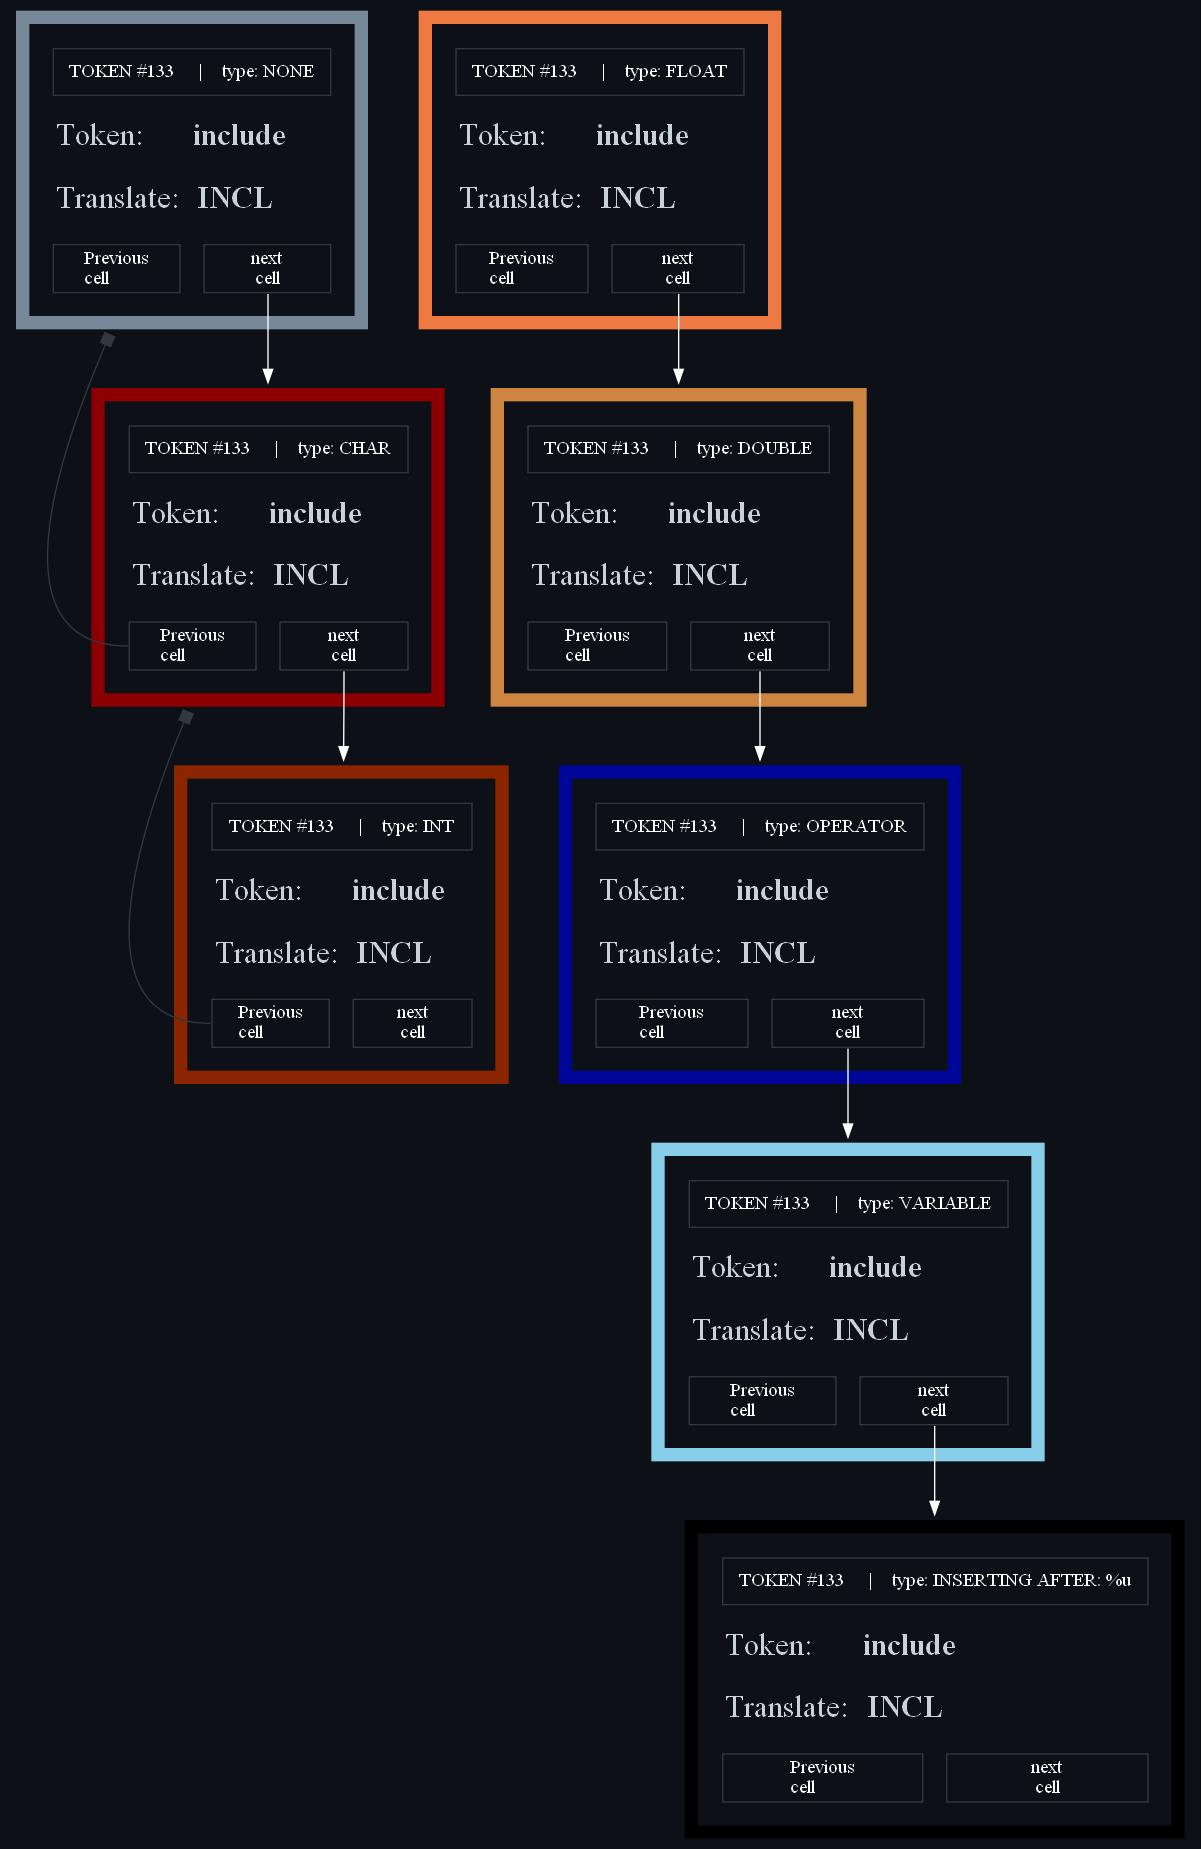
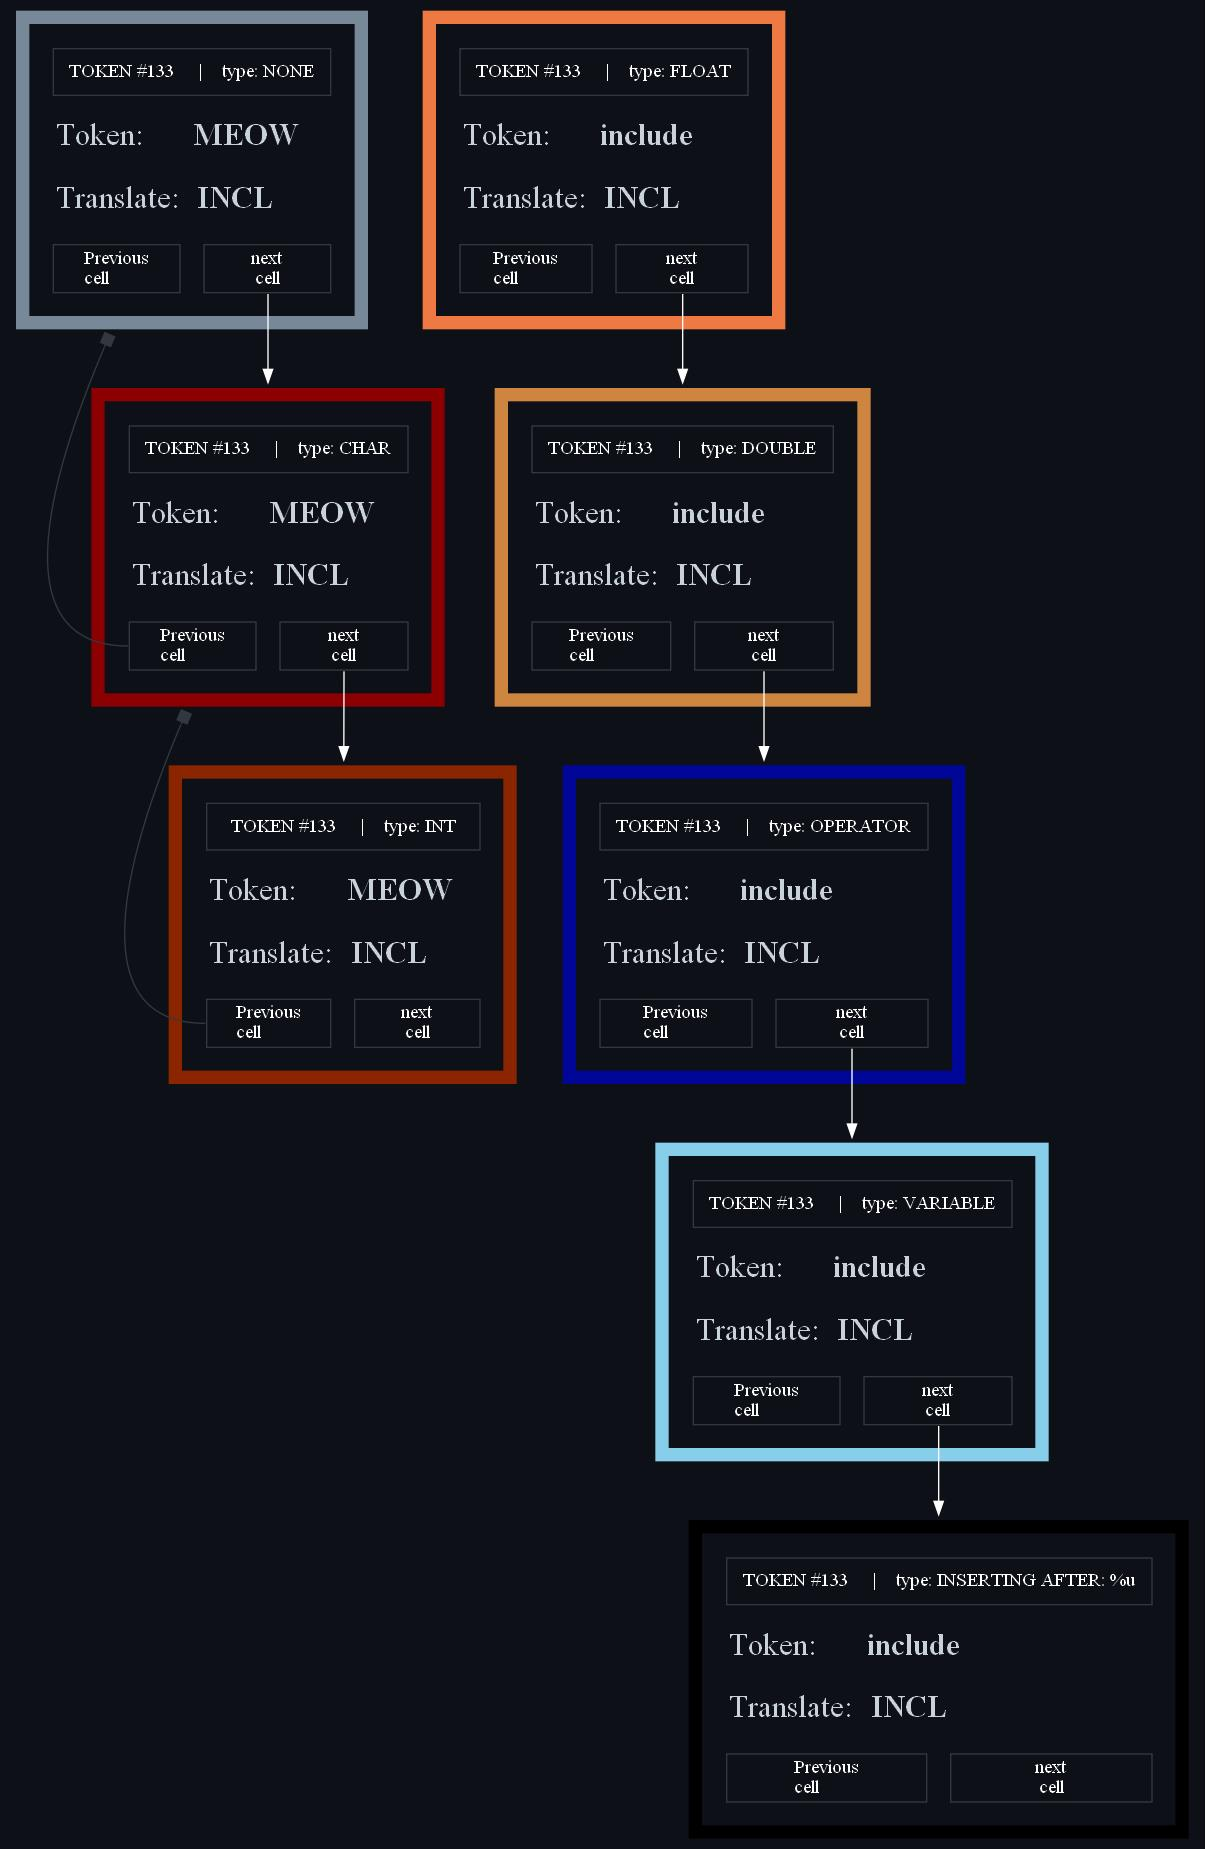
added the ability to create lists filled with words (tokens)

diff --git a/scr/doubly-linked-list.c b/scr/doubly-linked-list.c
@@ -266,7 +266,12 @@ void drowList (list *list) {
 	fprintf (IR_TOKENS, "digraph G {\n\tbgcolor=\"#0D1117\"\n\n\t# the design of the nodes themselves\n");
 	for (unsigned el = 0; el < list->capacity; el++) {
 		printf ("print list[%u]\n", el);
-		fprintf (IR_TOKENS, FILL_CELL2, el, typeColor[el], types[el], "include", "INCL", el, el);
+		if (el < list->size) {
+			fprintf (IR_TOKENS, FILL_CELL2, el, typeColor[el], types[el], list->cells[el].data.lexem, "INCL", el, el);
+		}
+		else {
+			fprintf (IR_TOKENS, FILL_CELL2, el, typeColor[el], types[el], "include", "INCL", el, el);
+		}
 	}
 	fprintf (IR_TOKENS, "\t# connection of these nodes\n");
 	for (unsigned el = 0; el < list->capacity; el++) {
